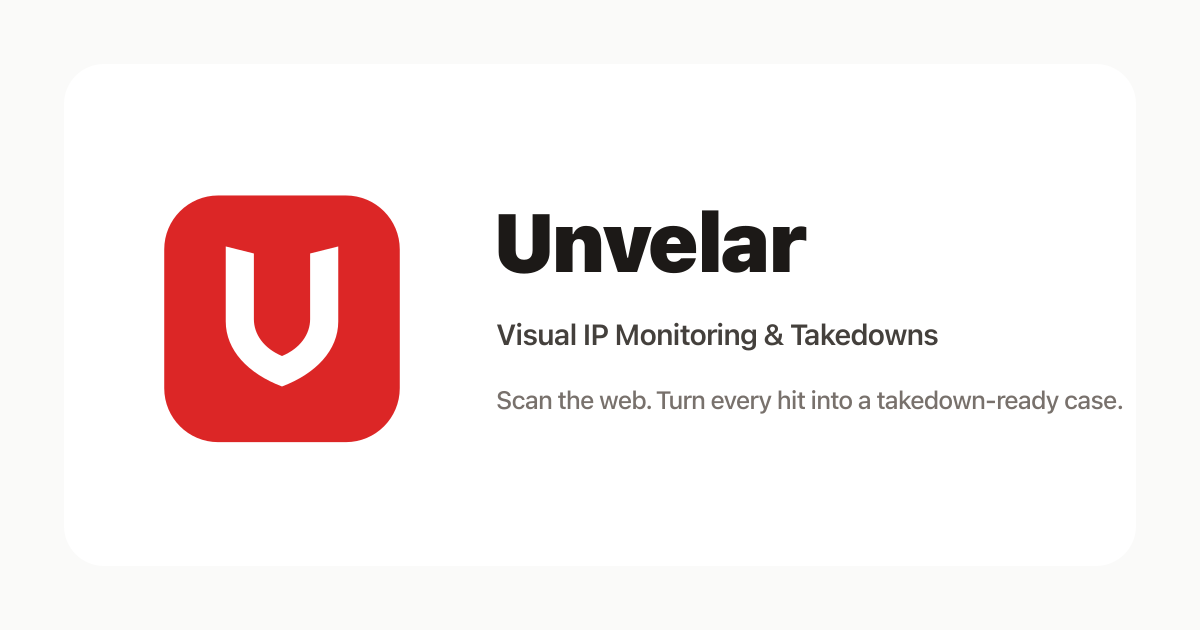
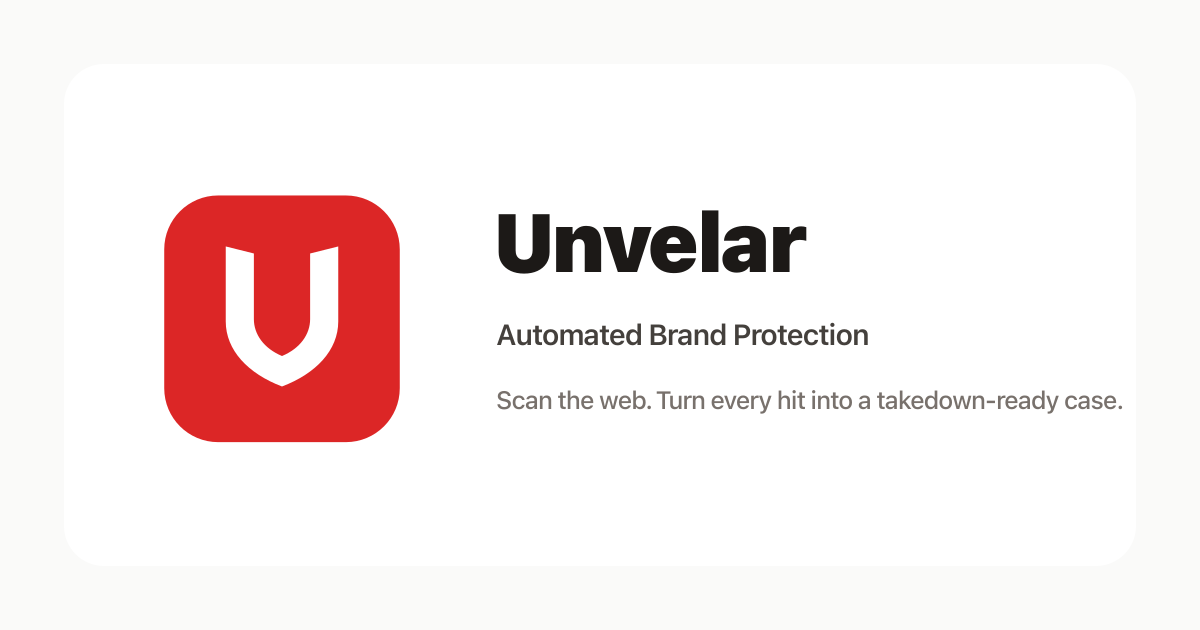
copy: retitle page as "Automated Brand Protection"
Swaps the "Visual IP Monitoring & Takedowns" title/tagline (in the
page title, OG/Twitter meta, and the generated share-card image) for
"Automated Brand Protection", since the old wording put takedowns
front and center even though Unvelar prepares evidence but doesn't
send takedown notices itself.

Changed region(s): [[0.4008, 0.5127, 0.8017, 0.573]]

diff --git a/index.html b/index.html
@@ -14,16 +14,16 @@
     <link rel="canonical" href="https://unvelar.com/" />
     <meta property="og:type" content="website" />
     <meta property="og:url" content="https://unvelar.com/" />
-    <meta property="og:title" content="Unvelar | Visual IP Monitoring & Takedowns" />
+    <meta property="og:title" content="Unvelar | Automated Brand Protection" />
     <meta property="og:description" content="Unvelar scans marketplaces, social platforms, and the open web for counterfeits and infringement, and turns every match into a case you can act on." />
     <meta property="og:image" content="https://unvelar.com/social-preview.png" />
     <meta property="og:image:width" content="1200" />
     <meta property="og:image:height" content="630" />
     <meta name="twitter:card" content="summary_large_image" />
-    <meta name="twitter:title" content="Unvelar | Visual IP Monitoring & Takedowns" />
+    <meta name="twitter:title" content="Unvelar | Automated Brand Protection" />
     <meta name="twitter:description" content="Unvelar scans marketplaces, social platforms, and the open web for counterfeits and infringement, and turns every match into a case you can act on." />
     <meta name="twitter:image" content="https://unvelar.com/social-preview.png" />
-    <title>Unvelar | Visual IP Monitoring & Takedowns</title>
+    <title>Unvelar | Automated Brand Protection</title>
     <script>
       // Restore SPA route from 404.html redirect
       (function(){
